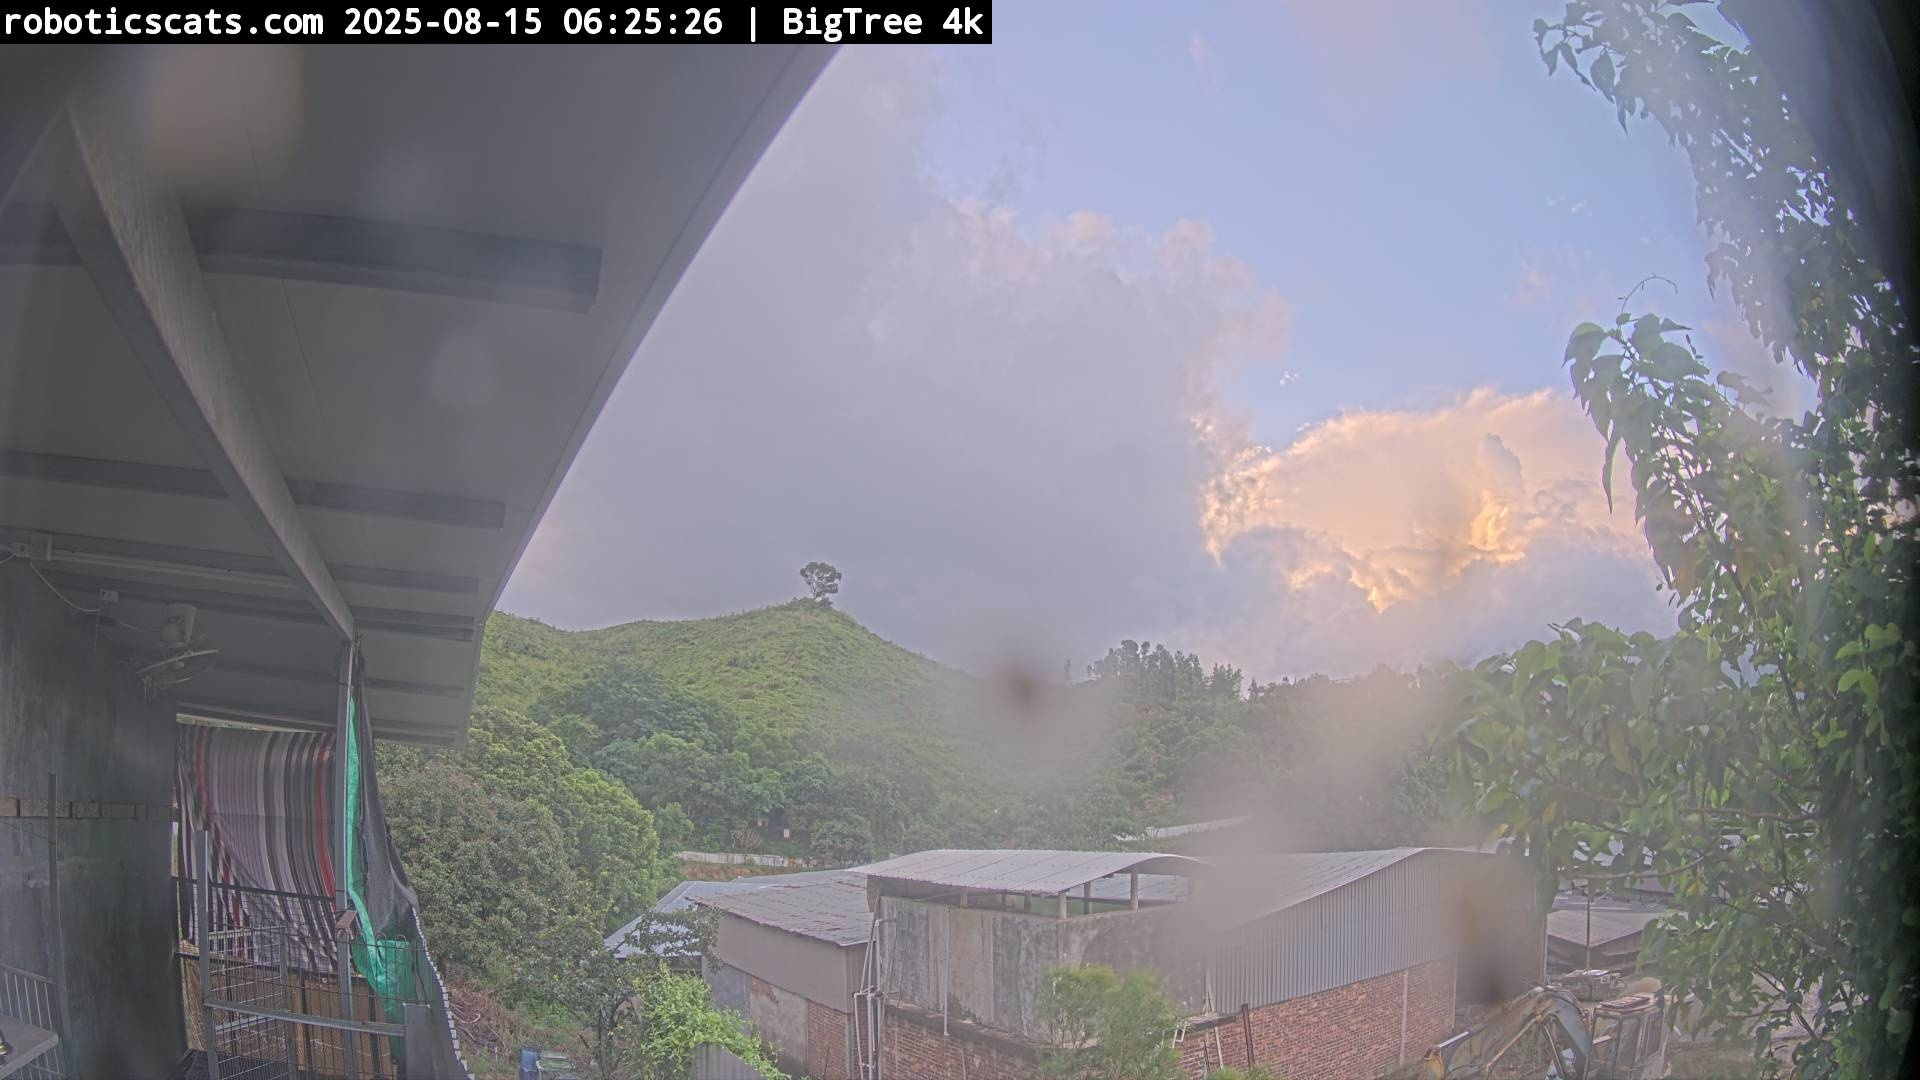
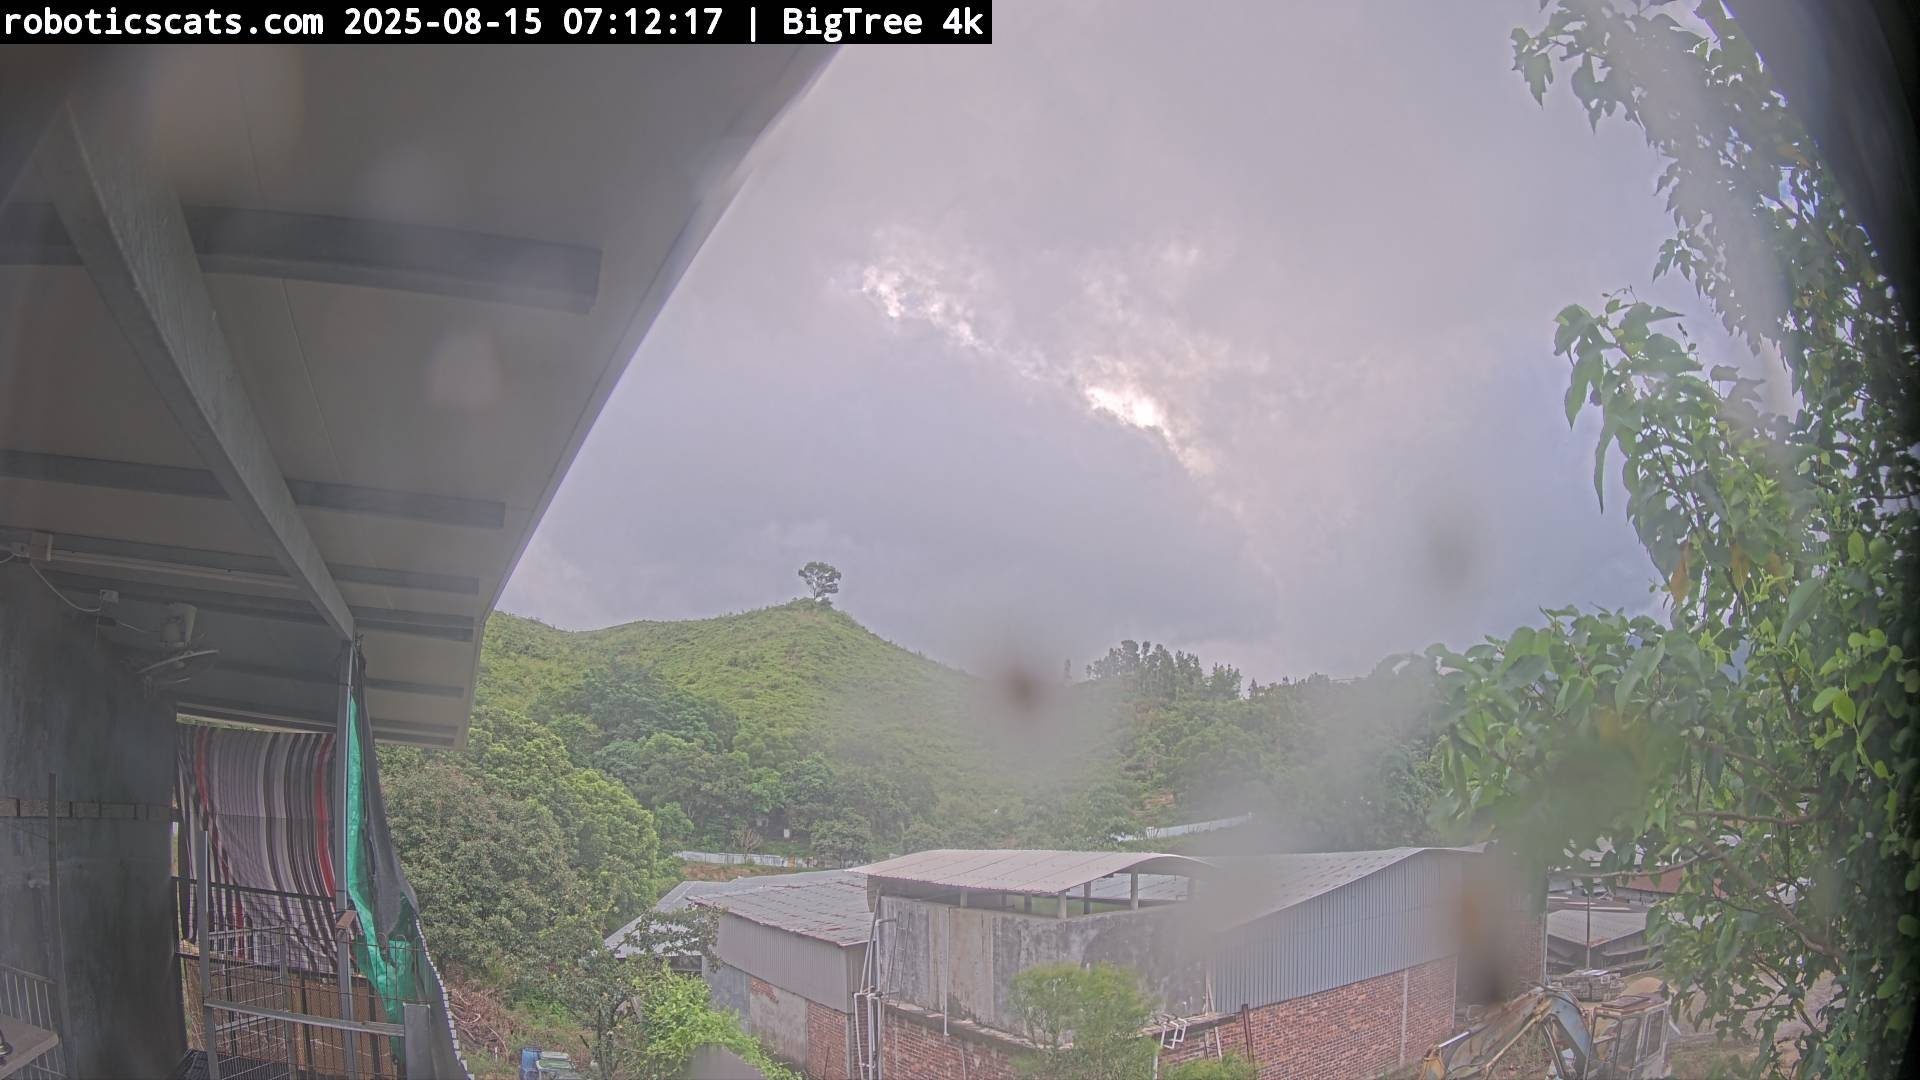
Refresh added for the camera view

diff --git a/src/components/FullView.js b/src/components/FullView.js
@@ -45,8 +45,8 @@ function FullView() {
 
   useEffect(() => {
     fetchImages()
-    // Refresh images every 30 seconds
-    const interval = setInterval(fetchImages, 30000)
+    // Refresh images every 10 seconds for more frequent updates
+    const interval = setInterval(fetchImages, 10000)
     return () => clearInterval(interval)
   }, [])
 
@@ -73,7 +73,7 @@ function FullView() {
               <div key={index} className="image-card">
                 <div className="image-container">
                   <img
-                    src={image.url}
+                    src={`${image.url}?t=${Date.now()}`}
                     alt={`Camera ${image.source}`}
                     className="camera-image"
                     onError={(e) => {
